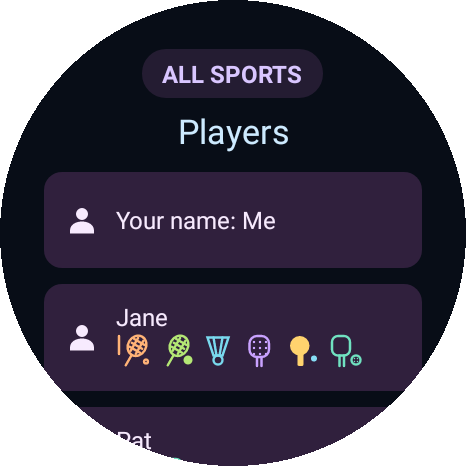
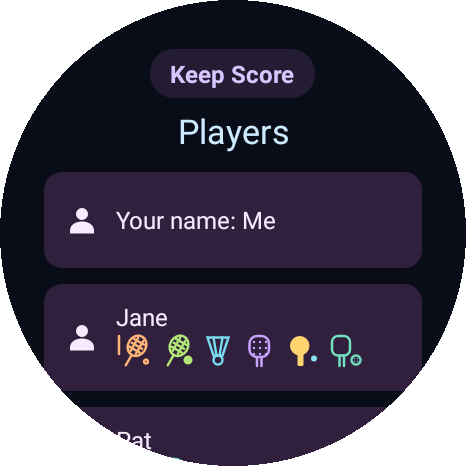
Fix shared menu branding in Keep Score v0.16.2

Changed region(s): [[0.3004, 0.0901, 0.691, 0.2103], [0.3305, 0.0901, 0.3605, 0.1202]]

diff --git a/public/index.html b/public/index.html
@@ -38,8 +38,8 @@
 <div><p class="eyebrow">Six racket sports · Wear OS</p><h1 id="hero-title">Keep <em>score.</em><br>Keep <em>playing.</em></h1>
 <p class="lead">Squash, tennis, badminton, padel, table tennis and pickleball, right on your wrist. Separate results for every sport. One shared list of players.</p>
 <ul class="hero-benefits"><li>Works offline</li><li>No account required</li><li>Standalone watch app</li></ul>
-<div class="actions" id="download"><a class="button primary" href="apks/KeepScore-0.16.1.apk" download><svg class="icon" aria-hidden="true"><use href="#icon-download"/></svg>Download v0.16.1</a><a class="button" href="#install">How to install</a></div>
-<p class="download-note"><span class="version">v0.16.1</span> Watch APK<br>Install using your Android phone. Currently distributed by APK.</p></div>
+<div class="actions" id="download"><a class="button primary" href="apks/KeepScore-0.16.2.apk" download><svg class="icon" aria-hidden="true"><use href="#icon-download"/></svg>Download v0.16.2</a><a class="button" href="#install">How to install</a></div>
+<p class="download-note"><span class="version">v0.16.2</span> Watch APK<br>Install using your Android phone. Currently distributed by APK.</p></div>
 <fieldset class="sport-preview" aria-describedby="preview-hint"><legend class="sr-only">Choose a sport to preview its scoreboard</legend>
 <input type="radio" name="preview-sport" id="preview-squash" checked><label for="preview-squash" style="--sport:var(--squash)"><svg class="icon" aria-hidden="true"><use href="#icon-squash"/></svg>Squash</label>
 <input type="radio" name="preview-sport" id="preview-tennis"><label for="preview-tennis" style="--sport:var(--tennis)"><svg class="icon" aria-hidden="true"><use href="#icon-tennis"/></svg>Tennis</label>
@@ -81,7 +81,7 @@
 <section class="section" id="install" aria-labelledby="install-title"><div class="install-grid">
 <div><p class="eyebrow">Get onto the court</p><h2 id="install-title">Install with your Android phone.</h2><p class="install-intro">The app runs on your Wear OS watch. Your phone helps with the installation.</p>
 <ol class="install-steps">
-<li><span><strong>Download the watch app.</strong><br>Save <a href="apks/KeepScore-0.16.1.apk" download>Keep Score v0.16.1</a> on your Android phone.</span></li>
+<li><span><strong>Download the watch app.</strong><br>Save <a href="apks/KeepScore-0.16.2.apk" download>Keep Score v0.16.2</a> on your Android phone.</span></li>
 <li><span><strong>Connect your watch.</strong><br>Install <a href="https://play.google.com/store/apps/details?id=org.freepoc.wearinstaller2">Wear Installer 2</a> and follow its <a href="https://freepoc.org/wear-installer-2-help-page/">pairing guide</a> over Wi-Fi.</span></li>
 <li><span><strong>Install the APK.</strong><br>In Wear Installer 2, choose Custom APK, select the downloaded file and install it on the watch.</span></li>
 <li><span><strong>Choose your sport and play.</strong><br>Open Keep Score. Choose your scoring format and optional players, then Create match. The first point starts timing.</span></li>

diff --git a/android/src/at/andrew/squashtap/MainActivity.java b/android/src/at/andrew/squashtap/MainActivity.java
@@ -229,7 +229,7 @@ public final class MainActivity extends Activity implements ScoreView.Actions,Li
         section(menu,"Sport");
         navigationButton(menu,"Scoring rules",this::showSportRules);
         navigationButton(menu,"Change sport",this::showSports);
-        section(menu,"App · all sports");
+        section(menu,"Keep Score");
         personButton(menu,"Players",()->openPlayers(this::showMenu,"Back to Menu"));
         settingsButton(menu,"Settings",()->openSettings(this::showMenu,"Back to Menu"));
         if(here)backButton(menu,"Back to score",this::closePanel);
@@ -651,7 +651,7 @@ public final class MainActivity extends Activity implements ScoreView.Actions,Li
         if(hasCurrentMatch()&&!book.current().complete())button(content,"Resume "+book.current().format().name(),this::showMatchControls);
         if(sportLocked())paragraph(content,"Finish or cancel your "+book.current().format().name()+" match to change sport. Paused matches stay locked.");
         for(String sport:MatchFormat.SPORTS){Button choice=navigationButton(content,MatchFormat.name(sport),()->{if(selectSport(sport))showMenu();});sportButton(choice,sport);boolean enabled=!sportLocked()||sport.equals(book.current().format().sport);choice.setEnabled(enabled);choice.setAlpha(enabled?1f:.4f);choice.setContentDescription(MatchFormat.name(sport)+(enabled?", choose sport":", locked until the current match is finished or cancelled"));}
-        section(content,"App · all sports");
+        section(content,"Keep Score");
         personButton(content,"Players",()->openPlayers(this::showSports,"Back to sports"));settingsButton(content,"Settings",()->openSettings(this::showSports,"Back to sports"));
         backButton(content,"Close app",this::finish);
     }
@@ -1061,7 +1061,7 @@ public final class MainActivity extends Activity implements ScoreView.Actions,Li
         scroll.setPadding(horizontal,top,horizontal,round?Math.round(metrics.heightPixels*.14f):dp(18));
         LinearLayout content=new LinearLayout(this);content.setOrientation(LinearLayout.VERTICAL);content.setGravity(Gravity.CENTER_HORIZONTAL);
         scroll.addView(content,new ScrollView.LayoutParams(ViewGroup.LayoutParams.MATCH_PARENT,ViewGroup.LayoutParams.WRAP_CONTENT));
-        if(title.equals("Choose sport")){TextView brand=paragraph(content,"KEEP SCORE");brand.setTextSize(10);brand.setTextColor(0xff9daec4);}
+        if(title.equals("Choose sport")){TextView brand=paragraph(content,"Keep Score");brand.setTextSize(10);brand.setTextColor(0xff9daec4);}
         else sportBadge(content,sharedArea?null:selectedSport);
         TextView heading=paragraph(content,title);heading.setTextSize(17);heading.setTextColor(0xffcdeaff);
         panelShortcut=!title.equals("Menu")&&!title.equals("Choose sport")&&!title.endsWith("?")&&book.current().format().sport.equals(selectedSport)&&(sessionOngoing()||needsResume());
@@ -1101,10 +1101,10 @@ public final class MainActivity extends Activity implements ScoreView.Actions,Li
     }
     private void section(LinearLayout content,String text){TextView label=paragraph(content,text.toUpperCase(java.util.Locale.ROOT));label.setTextSize(10);label.setTextColor(0xff9daec4);label.setPadding(0,dp(7),0,dp(3));}
     private void sportBadge(LinearLayout content,String sport){
-        TextView badge=paragraph(content,sport==null?"ALL SPORTS":MatchFormat.name(sport));badge.setTextSize(12);badge.setTypeface(android.graphics.Typeface.DEFAULT_BOLD);badge.setTextColor(sport==null?0xffd9c6ff:SportIcons.accent(sport));badge.setPadding(dp(10),dp(4),dp(10),dp(4));
+        TextView badge=paragraph(content,sport==null?"Keep Score":MatchFormat.name(sport));badge.setTextSize(12);badge.setTypeface(android.graphics.Typeface.DEFAULT_BOLD);badge.setTextColor(sport==null?0xffd9c6ff:SportIcons.accent(sport));badge.setPadding(dp(10),dp(4),dp(10),dp(4));
         GradientDrawable shape=new GradientDrawable();shape.setCornerRadius(dp(12));shape.setColor(sport==null?0xff241c32:(SportIcons.accent(sport)&0x00ffffff)|0x18000000);badge.setBackground(shape);
         if(sport!=null){SportIcons icon=new SportIcons(sport,dp(18));icon.setBounds(0,0,dp(18),dp(18));badge.setCompoundDrawables(icon,null,null,null);badge.setCompoundDrawablePadding(dp(5));}
-        badge.setLayoutParams(new LinearLayout.LayoutParams(ViewGroup.LayoutParams.WRAP_CONTENT,ViewGroup.LayoutParams.WRAP_CONTENT));badge.setContentDescription(sport==null?"Shared across all sports":"Current sport: "+MatchFormat.name(sport));
+        badge.setLayoutParams(new LinearLayout.LayoutParams(ViewGroup.LayoutParams.WRAP_CONTENT,ViewGroup.LayoutParams.WRAP_CONTENT));badge.setContentDescription(sport==null?"Keep Score, shared across all sports":"Current sport: "+MatchFormat.name(sport));
     }
     private void sportButton(Button button,String sport){
         int accent=SportIcons.accent(sport);GradientDrawable shape=new GradientDrawable();shape.setCornerRadius(dp(15));shape.setColor((accent&0x00ffffff)|0x18000000);shape.setStroke(dp(1),(accent&0x00ffffff)|0x66000000);

diff --git a/android/ui-test/at/andrew/squashtap/SportNavigationUiTest.java b/android/ui-test/at/andrew/squashtap/SportNavigationUiTest.java
@@ -35,7 +35,11 @@ public class SportNavigationUiTest {
         cancelCurrent();click("Change sport");click("Tennis");assertNotNull(button("Back to sports"));assertNull(find("Back to score"));click("Statistics");assertNull(find("Scoreboard"));back();back();assertTrue(button("Tennis").isEnabled());assertNotNull(button("Squash"));
     }
     @Test public void sharedPlayersAndSettingsReturnToSportsByButtonAndSystemBack(){
-        click("Change sport");click("Players");assertTrue(text().contains("ALL SPORTS"));click("Back to sports");assertNotNull(button("Table tennis"));click("Settings");assertTrue(text().contains("ALL SPORTS"));back();assertNotNull(button("Table tennis"));assertNotNull(button("Close app"));
+        click("Change sport");assertTrue(text().contains("Keep Score"));assertFalse(text().contains("ALL SPORTS"));
+        click("Players");assertTrue(text().contains("Keep Score"));assertFalse(text().contains("ALL SPORTS"));
+        click("Back to sports");assertNotNull(button("Table tennis"));click("Settings");assertTrue(text().contains("Keep Score"));assertFalse(text().contains("ALL SPORTS"));
+        click("Vibrations: Points and milestones");assertTrue(text().contains("Keep Score"));assertFalse(text().contains("ALL SPORTS"));click("Back to Settings");
+        back();assertNotNull(button("Table tennis"));assertNotNull(button("Close app"));
     }
     @Test public void sportContextAppearsInMenusSetupRulesAndHistory(){
         cancelCurrent();click("Change sport");click("Badminton");boolean found=false;for(View v:views())if("Current sport: Badminton".contentEquals(v.getContentDescription()==null?"":v.getContentDescription())){found=true;assertEquals(SportIcons.accent("badminton"),((TextView)v).getCurrentTextColor());}assertTrue(found);

diff --git a/scripts/build.py b/scripts/build.py
@@ -6,8 +6,8 @@ import argparse, hashlib, json, os, secrets, shutil, subprocess, sys, zipfile
 ROOT=Path(__file__).resolve().parents[1]
 PKG='at.andrew.squashtap'
 SITE='https://squash-tap-andrew.endruuu.chatgpt.site'
-RELEASES=((19,'0.16.1'),)
-RELEASE_NOTES='Settings choices stay open with selected marks and consistent Back navigation. Live sharing opens the audience QR automatically when ready. Discarded matches replace the audience score with an anonymous notice, with reconnect retry; ended broadcasts clear stale scores.'
+RELEASES=((20,'0.16.2'),)
+RELEASE_NOTES='Shared menus now show Keep Score instead of All Sports. Sport-specific menus keep their sport names. Includes the Settings navigation and live audience discard fixes from v0.16.1.'
 
 def run(args, env=None):
     result=subprocess.run([str(x) for x in args],cwd=ROOT,env=env,text=True,stdout=subprocess.PIPE,stderr=subprocess.STDOUT)

diff --git a/AGENTS.md b/AGENTS.md
@@ -1,6 +1,6 @@
 # Maintenance instructions
 
-Read [README.md](README.md), [ARCHITECTURE.md](ARCHITECTURE.md), [FLOW.md](FLOW.md), [DEPLOYMENT.md](DEPLOYMENT.md), [TESTING.md](TESTING.md), [VERSIONING.md](VERSIONING.md) and [GITHUB.md](GITHUB.md) before changing the corresponding behavior. Current release is v0.16.1/code 19; older release-specific decisions remain in Git history and [CHANGELOG.md](CHANGELOG.md).
+Read [README.md](README.md), [ARCHITECTURE.md](ARCHITECTURE.md), [FLOW.md](FLOW.md), [DEPLOYMENT.md](DEPLOYMENT.md), [TESTING.md](TESTING.md), [VERSIONING.md](VERSIONING.md) and [GITHUB.md](GITHUB.md) before changing the corresponding behavior. Current release is v0.16.2/code 20; older release-specific decisions remain in Git history and [CHANGELOG.md](CHANGELOG.md).
 
 ## Scope, identity and publication
 
@@ -23,7 +23,7 @@ Read [README.md](README.md), [ARCHITECTURE.md](ARCHITECTURE.md), [FLOW.md](FLOW.
 
 ## Navigation and visual rules
 
-- Entry is the six-sport selector with distinct vector icons/colours, shared purple Players and grey Settings. Sport-scoped panels and scoreboards show their actual sport; shared pages show ALL SPORTS and retain their true caller. Each sport has Current match/new/resume, Results, Statistics, Change sport and Scoring rules. One current match is global; unfinished, paused and explicitly prepared matches lock other sports until completion or confirmed discard. Enforce the lock again in selection and create callbacks. Current match puts Start/Pause/Resume first. Match options contains format/opponent/new replacement/retirement; app settings stay in Settings.
+- Entry is the six-sport selector with distinct vector icons/colours, shared purple Players and grey Settings. Sport-scoped panels and scoreboards show their actual sport; shared pages show the Keep Score app name and retain their true caller. Each sport has Current match/new/resume, Results, Statistics, Change sport and Scoring rules. One current match is global; unfinished, paused and explicitly prepared matches lock other sports until completion or confirmed discard. Enforce the lock again in selection and create callbacks. Current match puts Start/Pause/Resume first. Match options contains format/opponent/new replacement/retirement; app settings stay in Settings.
 - Current match → Enter set score changes the current match. Results → Add past match creates independent history without changing current score/person/timing/Undo/session. Use score wheels, +/−, presets, date wheels and saved names; no mandatory tiny-keyboard entry. Confirm replacing a partial set and whole-set Undo; retain earlier real rallies.
 - NEW stages sport-specific rules, supported match length and optional players until Create match. Confirm replacement; Back to setup preserves the draft and Cancel changes no old match/person/session. New names may enter the catalog without being assigned to the old match.
 - Mode, scoring, deuce, deciding set, length, result-mode and screen-policy choices open explicit lists with a selected mark; never cycle values on tap. Put options before help, retain setup/options/settings/serving scroll on picker return, and omit the Scoreboard shortcut from confirmation questions. Picker cancellation/Back/swipe leaves choices untouched. Each panel has one named outlined Back/Cancel action. Named Back, hardware Back and native swipe-dismiss use the same contextual callback. Retain result filters/page/scroll through details/pickers/delete cancellation. Scoreboard shortcuts preserve pause/session state. Late async transfer callbacks must not reopen an abandoned panel.

diff --git a/README.md b/README.md
@@ -1,6 +1,6 @@
 # Keep Score
 
-A standalone, offline racket-sport scorekeeper for Wear OS. Current watch release: **v0.16.1**, Android version code **19**. No account is required; scores and saved history live on the watch.
+A standalone, offline racket-sport scorekeeper for Wear OS. Current watch release: **v0.16.2**, Android version code **20**. No account is required; scores and saved history live on the watch.
 
 [Download the watch app](https://squash-tap-andrew.endruuu.chatgpt.site/) · [GitHub source](https://github.com/andrew01ait/squash-tap) · [Install using your phone](INSTALLATION.md)
 
@@ -27,7 +27,7 @@ A standalone, offline racket-sport scorekeeper for Wear OS. Current watch releas
 
 ## Where to find things
 
-The launcher opens the six-sport selector. Every sport has a distinct icon and accent colour, also shown in menus and on the scoreboard. There is one current match across the app. Other sports are locked while an unfinished match exists, including paused or prepared matches; finish or cancel it first. Shared Players and Settings remain accessible and return to their actual caller.
+The launcher opens the six-sport selector. Every sport has a distinct icon and accent colour, also shown in menus and on the scoreboard. There is one current match across the app. Other sports are locked while an unfinished match exists, including paused or prepared matches; finish or cancel it first. Shared Players and Settings show the Keep Score app name, remain accessible and return to their actual caller. Sport-specific screens retain their sport name and icon.
 
 | Menu | Purpose |
 | --- | --- |
@@ -83,7 +83,7 @@ Updates are requested manually in Settings. There is no background update pollin
 | [AGENTS.md](AGENTS.md) | Maintenance constraints for future coding work. |
 | [CHANGELOG.md](CHANGELOG.md) | Release and documentation history. |
 
-The current v0.16.1 release suite passes **325 core + 185 Android UI + 58 web/relay checks = 568**. The historical v0.13 release suite was **265 core + 100 Android UI + 35 web/relay checks = 400**. This is release evidence, not a claim that every documentation update reruns or physically validates the watch. See [TESTING.md](TESTING.md) for current verification.
+The current v0.16.2 release suite passes **325 core + 185 Android UI + 58 web/relay checks = 568**. The historical v0.13 release suite was **265 core + 100 Android UI + 35 web/relay checks = 400**. This is release evidence, not a claim that every documentation update reruns or physically validates the watch. See [TESTING.md](TESTING.md) for current verification.
 
 Full backups use the local export date and application name: `YYYYMMDD_ApplicationName_Description.json`, for example `20261111_KeepScore_Backup.json`. Completed-result interchange remains CSV; full backup JSON also preserves current rallies and Undo.
 

diff --git a/FLOW.md b/FLOW.md
@@ -1,4 +1,4 @@
-# Navigation and match flows — v0.16.1
+# Navigation and match flows — v0.16.2
 
 ## Sport entry and scope
 
@@ -25,7 +25,7 @@ The scoreboard stays focused on Me/Opponent scoring, Undo and Next/New. Its head
 | Scoring rules | Sport presets, service guidance and limits | Blue navigation row |
 | Settings | Version, updates, screen/notification options and diagnostics | Grey |
 
-The sport Menu returns to its own current scoreboard when available; an idle sport Menu returns to Choose sport. A sport icon/name badge identifies the scope. App-wide Players/Settings use an ALL SPORTS badge and return to their originating Menu or sport selector. Every subpage has one named outlined Back/Cancel action. Hardware Back and native right-swipe dismissal invoke that same return. During active or resumable play, compatible subpages have a Scoreboard shortcut for the actual match sport; it changes no session state. Dialog replacement, backgrounding and ambient transitions do not act as a user Back.
+The sport Menu returns to its own current scoreboard when available; an idle sport Menu returns to Choose sport. A sport icon/name badge identifies the scope. App-wide Players/Settings and their subpages use a Keep Score badge and return to their originating Menu or sport selector. Every subpage has one named outlined Back/Cancel action. Hardware Back and native right-swipe dismissal invoke that same return. During active or resumable play, compatible subpages have a Scoreboard shortcut for the actual match sport; it changes no session state. Dialog replacement, backgrounding and ambient transitions do not act as a user Back.
 
 ## Current match
 
@@ -124,3 +124,7 @@ Settings is grouped into Display, Feedback, Data, Watch shortcuts and App. Vibra
 Live readiness automatically opens Audience QR only from the still-visible waiting panel. Failure replaces the waiting controls with Start live sharing; late/background callbacks never interrupt another screen. Returning from QR keeps the ready link available without reopening it repeatedly. QR screen retention stays bounded.
 
 A committed Cancel match → Discard match sends an encrypted anonymous discard notice, replacing all shared scores/names. The viewer shows Match discarded and stops polling. Cancelling the discard confirmation changes nothing. Offline notices retry on network reconnect while the process survives; no score action is required. A stopped/expired/revoked audience link clears the old Playing score and shows Broadcast ended.
+
+## v0.16.2 menu identity
+
+Shared screens use the Keep Score app name, including Players, Settings and their selectors. The sport selector and app-wide section headings use the same name. Sport-specific pages retain their sport name/icon; Back and swipe routes retain their caller.

diff --git a/ARCHITECTURE.md b/ARCHITECTURE.md
@@ -1,6 +1,6 @@
 # Architecture
 
-Current watch release: **v0.16.1**, code **19**. This document describes the implemented system; release changes are in [CHANGELOG.md](CHANGELOG.md).
+Current watch release: **v0.16.2**, code **20**. This document describes the implemented system; release changes are in [CHANGELOG.md](CHANGELOG.md).
 
 ## Components and responsibilities
 
@@ -20,7 +20,7 @@ The website is a Vinext/Cloudflare Worker application with `DB` and `BUCKET` bin
 
 ## Sport navigation and discard
 
-MainActivity keeps the browsing scope separate from the one current match. An unfinished scored, timed, active, paused or explicitly prepared match locks every other sport. Selection/setup/create callbacks enforce the lock before mutation; completion or confirmed discard unlocks it. `match_ready_id` retains a created or explicitly started, unplayed match across restarts and foreground-session removal. It is not a result or active-service token. SportIcons supplies the same accent and vector mark to selectors, badges and ScoreView. Shared Players/Settings retain contextual return callbacks; rule/mode/length/display choices use ticked lists with options before help text and restored setup scroll.
+MainActivity keeps the browsing scope separate from the one current match. An unfinished scored, timed, active, paused or explicitly prepared match locks every other sport. Selection/setup/create callbacks enforce the lock before mutation; completion or confirmed discard unlocks it. `match_ready_id` retains a created or explicitly started, unplayed match across restarts and foreground-session removal. It is not a result or active-service token. SportIcons supplies the same accent and vector mark to selectors, badges and ScoreView. Shared Players/Settings and their subpages identify the app as Keep Score; sport-scoped badges retain the sport name/icon. Shared menus retain contextual return callbacks; rule/mode/length/display choices use ticked lists with options before help text and restored setup scroll.
 
 Discard clones the book and directory, calls `MatchBook.discardCurrent` and `OpponentDirectory.forgetMatch`, then commits both plus cleared active/pause/prepared preferences before swapping live references. It creates no result or daily reference. Saved history, counters, player catalog and historical roles stay intact; a fresh empty UUID prevents old Undo/resume/transfer callbacks from reviving the discarded match. Completed matches reject discard and retain the normal result-deletion path. New-match creation likewise commits related state before replacing live references. These navigation operations preserve the compatible book readers. Pickleball extends the nested ScoreState encoding and live sharing adds an independent relay table.
 

diff --git a/VERSIONING.md b/VERSIONING.md
@@ -1,6 +1,6 @@
 # Versions and compatibility
 
-Current official watch release: **v0.16.1**; Android version code **19**; package **`at.andrew.squashtap`**. `public/release.properties` is the machine-readable update feed; `public/builds.json` and `SHA256SUMS.txt` record retained artifacts.
+Current official watch release: **v0.16.2**; Android version code **20**; package **`at.andrew.squashtap`**. `public/release.properties` is the machine-readable update feed; `public/builds.json` and `SHA256SUMS.txt` record retained artifacts.
 
 ## Independent version numbers
 
@@ -33,8 +33,10 @@ Keep [README.md](README.md), [INSTALLATION.md](INSTALLATION.md), [FLOW.md](FLOW.
 
 ## v0.16 compatibility
 
-Keep Score is the new display name. The package `at.andrew.squashtap`, SharedPreferences `squash`, original signing certificate, old crypto context and old published APK names remain stable for in-place updates. Current generated downloads use `KeepScore-0.16.1.apk` and `KeepScore-source.zip`; old `SquashTap-*.apk` files remain byte-for-byte. No repository/website URL rename or license change accompanies this release.
+Keep Score is the new display name. The package `at.andrew.squashtap`, SharedPreferences `squash`, original signing certificate, old crypto context and old published APK names remain stable for in-place updates. Current generated downloads use `KeepScore-0.16.2.apk` and `KeepScore-source.zip`; old `SquashTap-*.apk` files remain byte-for-byte. No repository/website URL rename or license change accompanies this release.
 
 ScoreState 4 adds pickleball’s server-dependent rally log while M4/B5 and CSV schema 3 retain their version identities with validated pickleball formats. Older watches must update before importing pickleball. New optional preferences include own name, favourites, palette, haptics and reminders; full-backup schema 1 carries only validated settings. Envelope 2 does not replace envelope 1. Live audience schema 1 is a separate read-only protocol/table with an eight-hour expiry and independent roles. Never reuse phone-transfer capabilities for an audience link.
 
 The v0.16.1/code 19 patch changes navigation and sharing presentation, not match-book/CSV/backup schemas. The existing encrypted live schema 1 gains a minimal terminal discard notice; new viewer code also clears stale scores for older watches’ revoked links. Existing audience pages should be refreshed once to load the corrected viewer. Old notices remain readable only until the original link expiry.
+
+The v0.16.2/code 20 patch changes shared menu branding to Keep Score. Sport names, navigation, scoring, persistence and transfer schemas retain their existing behavior; retain v0.16.1/code 19 and earlier APKs unchanged.

diff --git a/TESTING.md b/TESTING.md
@@ -1,6 +1,6 @@
 # Testing and verification
 
-Current watch release: **v0.16.1 / code 19**. Record the source revision and actual commands for each verification; do not present historical release results as a fresh rerun.
+Current watch release: **v0.16.2 / code 20**. Record the source revision and actual commands for each verification; do not present historical release results as a fresh rerun.
 
 ## Recorded release evidence
 
@@ -59,7 +59,7 @@ Native/browser interchange cases execute Java fixtures; the full command require
 Follow [DEPLOYMENT.md](DEPLOYMENT.md) for SDK, locked runtime/UI dependencies, original signing key and verified retained APKs. The standard builder executes core/web tests, compiles real AAPT resources and runs native UI tests before D8/signing. UI tests can also be repeated once those resources/generated classes exist:
 
 ```sh
-python3 scripts/test_ui.py --version 0.16.1
+python3 scripts/test_ui.py --version 0.16.2
 ```
 
 Robolectric executes API 34 and uses its configured API 35 framework for resource parsing. Test tooling stays under ignored `.local/`; it is not bundled in the APK. A fresh export does not contain the maintainer's signing key, SDK or prior unsigned build, so the complete release pipeline is not a key-free out-of-box build.
@@ -125,3 +125,7 @@ The audience page adapts to portrait phones and short landscape screens. Portrai
 ## Navigation and live corrections — v0.16.1, 2026-11-11
 
 The patch suite includes 325 core + 185 native UI + 58 web/relay cases (568). New native checks cover persistent Settings ticks, selected-option taps, contextual Back/swipe, auto QR readiness/failure/background/late response behavior, bounded QR retention, discard confirmation versus cancellation, anonymous terminal payloads, offline reconnect and starting another broadcast. Web checks reject names/scores in discard notices and verify replacement ciphertext with audience read-only access. Old release evidence remains historical. Physical watch and live-network acceptance remain pending.
+
+## Shared menu branding — v0.16.2, 2026-11-11
+
+The full release suite passes 325 core + 185 native UI + 58 web/relay cases (568). The existing shared-navigation regression checks Keep Score on the sport selector, Players, Settings and a nested settings selector, absence of ALL SPORTS identity text, and return to the sport selector. Existing sport-context tests retain the actual sport name/icon/accent. Native Canvas renders cover updated shared headers and sport menus. Original signer/package/SDK/alignment, immutable retained APK hashes, documentation/export parity and a matching local website build are verified. Physical watch acceptance remains pending.

diff --git a/DEPLOYMENT.md b/DEPLOYMENT.md
@@ -1,6 +1,6 @@
 # Build and deployment
 
-Official watch release: **v0.16.1 / code 19**. User installation is in [INSTALLATION.md](INSTALLATION.md); release-number and compatibility rules are in [VERSIONING.md](VERSIONING.md).
+Official watch release: **v0.16.2 / code 20**. User installation is in [INSTALLATION.md](INSTALLATION.md); release-number and compatibility rules are in [VERSIONING.md](VERSIONING.md).
 
 ## Repositories and prerequisites
 
@@ -95,6 +95,8 @@ The Android runtime lock now includes Tiles 1.2.0 and watchface complication dat
 
 `drizzle/0001_breezy_rawhide_kid.sql` adds only `live_games` and its expiry index; migration 0000 remains immutable. Apply pending migrations to the local preview in order using Wrangler’s local `d1 execute DB` with `dist/server/wrangler.json` and `.wrangler/state`. Sites applies hosted migrations during publication. Do not initialize tables in request handlers or seed real player data.
 
-The v0.16 source package is `public/KeepScore-source.zip`; the APK is `public/apks/KeepScore-0.16.1.apk`. Preserve earlier APK names/hashes. Verify the landing page’s six PNG sport previews plus the three colour schemes and all currently referenced downloads before publication. Full backup envelope 2 and live schema 1 are separate from the original envelope-1 transfer; keep both reader contracts and access roles.
+The v0.16 source package is `public/KeepScore-source.zip`; the APK is `public/apks/KeepScore-0.16.2.apk`. Preserve earlier APK names/hashes. Verify the landing page’s six PNG sport previews plus the three colour schemes and all currently referenced downloads before publication. Full backup envelope 2 and live schema 1 are separate from the original envelope-1 transfer; keep both reader contracts and access roles.
 
 For v0.16.1 the live relay/schema are unchanged. Terminal notices use the existing encrypted owner PUT protocol; only the native client/viewer and navigation change. Preserve the v0.16.0/code 18 APK byte-for-byte while adding code 19.
+
+The v0.16.2/code 20 patch changes shared menu branding to Keep Score. Sport names, navigation, scoring, persistence and transfer schemas retain their existing behavior; retain v0.16.1/code 19 and earlier APKs unchanged.

diff --git a/INSTALLATION.md b/INSTALLATION.md
@@ -1,6 +1,6 @@
 # Install, update and diagnose
 
-[Official download page](https://squash-tap-andrew.endruuu.chatgpt.site/) · Current watch APK: **v0.16.1 / code 19**.
+[Official download page](https://squash-tap-andrew.endruuu.chatgpt.site/) · Current watch APK: **v0.16.2 / code 20**.
 
 The APK runs on the watch. Wear Installer 2 is a helper on the Android phone; no PC development tools are required. The app is currently distributed by APK through this site, not the watch app store.
 
@@ -66,3 +66,5 @@ Use the watch’s tile picker to add Keep Score. On a compatible watch face, add
 Physical acceptance for v0.16 also needs outdoor colour/brightness checks, actual tile/complication picker/rendering, vibration feel, optical QR scans, backup file picking/restore and real watch→website reconnect behavior. Desktop/native automation does not establish these device results.
 
 After installing v0.16.1, refresh any already-open audience webpage once. Start live sharing now opens its QR automatically; selectors in Settings stay open after a choice and use Back to Settings. Discarding a shared match shows Match discarded after the notice reaches the service; a disconnected watch retries on reconnect while the app process remains available.
+
+In v0.16.2, shared menus such as Players, Settings and their subpages show Keep Score. Sport-specific menus still show the selected sport. Use Settings → Check for updates to install the correction over your existing app.
